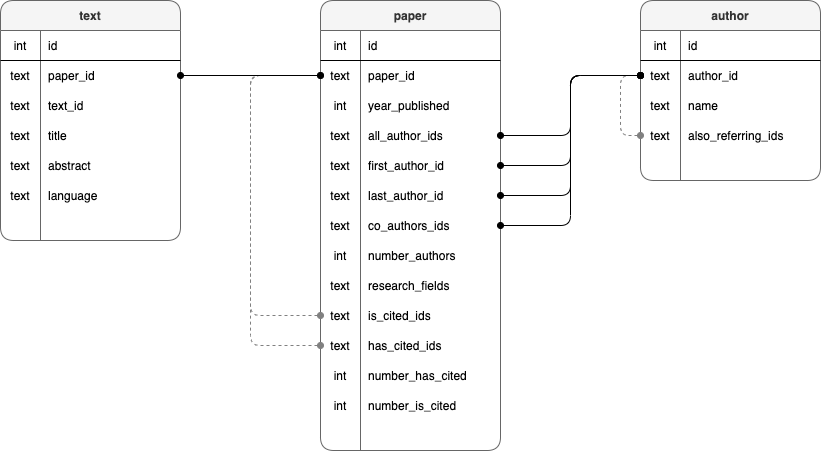
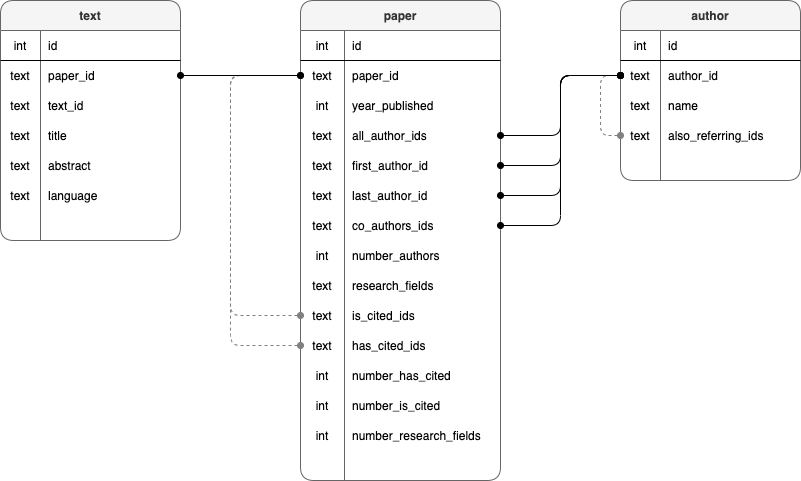
expand schema: paper

diff --git a/src/scholar_data_ingest/process/_ingester.py b/src/scholar_data_ingest/process/_ingester.py
@@ -107,12 +107,13 @@ def _create_table_entries(data: Dict[str, Any], use_lang_detection: bool=False) 
             "first_author_id": all_author_ids[0],
             "last_author_id": last_author_id,
             "co_authors_ids": co_authors_ids,
-            "research_fields": ",".join(data["fieldsOfStudy"]),
+            "research_fields": ",".join(data["fieldsOfStudy"]) if len(data["fieldsOfStudy"]) > 0 else None,
             "text_id": text_id,
             "is_cited_ids": ",".join(data["inCitations"]) if len(data["inCitations"]) > 0 else None,
             "has_cited_ids": ",".join(data["outCitations"]) if len(data["outCitations"]) > 0 else None,
             "number_has_cited": len(data["outCitations"]),
-            "number_is_cited": len(data["inCitations"])
+            "number_is_cited": len(data["inCitations"]),
+            "number_research_fields": len(data["fieldsOfStudy"])
         }
         
         return table_paper_entry, table_text_entry, table_author_entries
